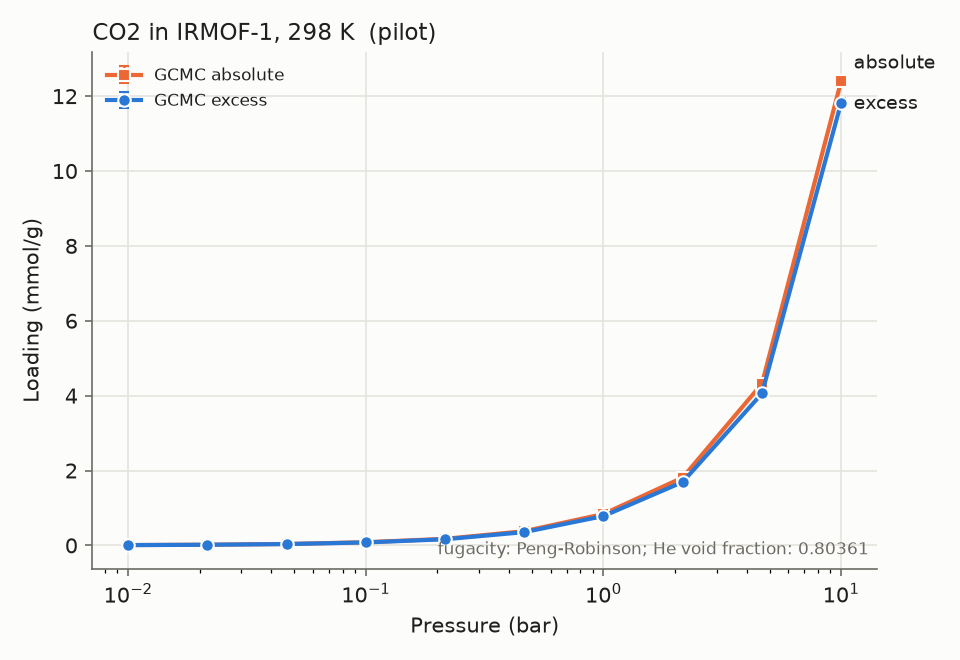
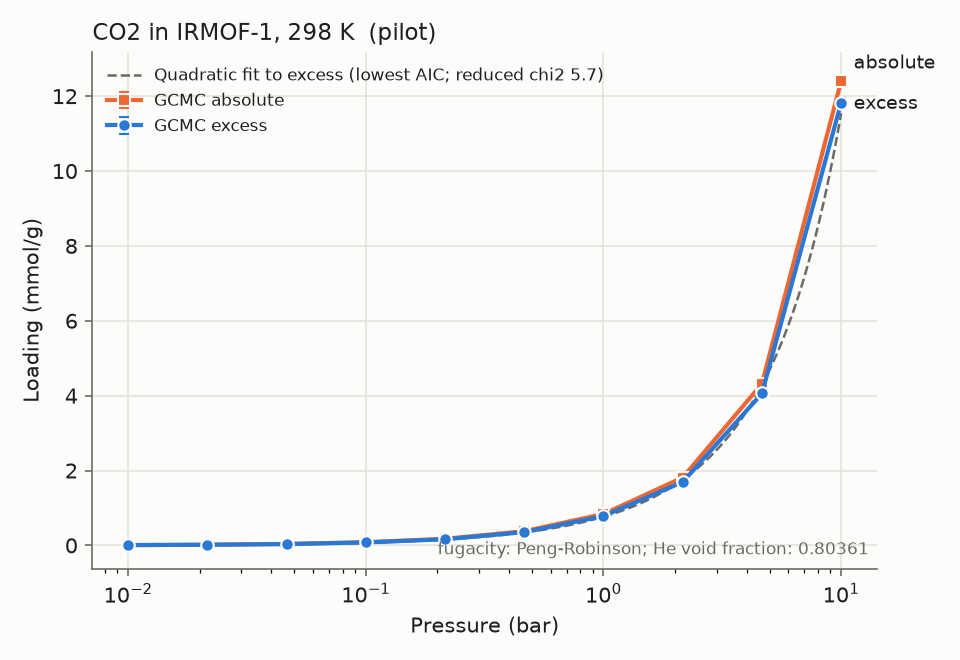
Phase 4 prep: matrix driver, Quadratic fit, low-loading rule, series errors
- gcmc matrix: all isotherms in one longest-first pool (cost from the
  10-bar calibration), one shared extension pass, resumable
- no extension for points with < 1 molecule in the box (flag low_loading)
- convergence uses the larger of the RASPA3 block error and the
  production-series standard error; both are reported
- pyGAPS Quadratic model fits S-shaped isotherms; plot shows lowest-AIC fit

Changed region(s): [[0.125, 0.0909, 0.625, 0.2121]]

diff --git a/src/gcmctools/workflow.py b/src/gcmctools/workflow.py
@@ -10,6 +10,7 @@ from . import fit, parse, raspa, runner, units
 
 ROOT = Path(__file__).resolve().parents[2]
 REL_ERR_LIMIT = 0.05
+LOW_LOADING_MOLECULES = 1.0   # below this average number of molecules in the box, no extension
 
 
 def load_cases():
@@ -164,33 +165,134 @@ def run_isotherm(case_id, gas, T, pressures_bar, opts, label, jobs=8, extend=Tru
     runner.run_pool(dirs + extra, jobs=jobs, log=log)
 
     if extend:
-        final = []
-        ext = []
-        for d, p in zip(dirs, pressures_bar):
-            r = parse.parse_run(d)
-            factor = extension_factor(r)
-            if factor > 1:
-                log(f"extend {p} bar by x{factor}: {d.name}")
-                ext.append(setup_point(model, "gcmc", gas, T, units.bar_to_pa(p), opts, parent,
-                                       cycles=opts["cycles"] * factor, init_cycles=opts["init_cycles"] * 2))
-                final.append(ext[-1])
-            else:
-                final.append(d)
-        if ext:
-            runner.run_pool(ext, jobs=jobs, log=log)
-        meta = json.loads((parent / "isotherm.json").read_text())
-        meta["gcmc_dirs_first_pass"] = meta["gcmc_dirs"]
-        meta["gcmc_dirs"] = [str(d) for d in final]
-        (parent / "isotherm.json").write_text(json.dumps(meta, indent=2))
+        extend_points(parent, model, opts, jobs=jobs, log=log)
     return parent
 
 
-def extension_factor(r, max_factor=4):
+def molecules_in_box(r, unit_cells):
+    if not r or r.get("abs_molec_uc") is None:
+        return None
+    return r["abs_molec_uc"] * unit_cells[0] * unit_cells[1] * unit_cells[2]
+
+
+def plan_extensions(parent, model, opts, log=print):
+    """Set up extension runs for unconverged points of one isotherm; record the final folder per point.
+
+    Returns the list of new folders (not yet run).
+    """
+    meta = json.loads((parent / "isotherm.json").read_text())
+    if "gcmc_dirs_first_pass" in meta:            # already planned (resume): return the extension folders
+        return [Path(d) for d, f in zip(meta["gcmc_dirs"], meta["gcmc_dirs_first_pass"]) if d != f]
+    final, ext = [], []
+    for d in map(Path, meta["gcmc_dirs"]):
+        run = json.loads((d / "run.json").read_text())
+        st = meta["gas"], meta["T_K"], run["settings"]["P_Pa"]
+        factor = extension_factor(parse.parse_run(d), unit_cells=opts["unit_cells"])
+        if factor > 1:
+            log(f"extend {st[0]} {st[1]:g} K {st[2] / 1e5:g} bar by x{factor}: {d}")
+            nd = setup_point(model, "gcmc", meta["gas"], meta["T_K"], run["settings"]["P_Pa"], opts, parent,
+                             cycles=opts["cycles"] * factor, init_cycles=opts["init_cycles"] * 2)
+            ext.append(nd)
+            final.append(nd)
+        else:
+            final.append(d)
+    meta["gcmc_dirs_first_pass"] = meta["gcmc_dirs"]
+    meta["gcmc_dirs"] = [str(d) for d in final]
+    (parent / "isotherm.json").write_text(json.dumps(meta, indent=2))
+    return ext
+
+
+def extend_points(parent, model, opts, jobs=8, log=print):
+    ext = plan_extensions(parent, model, opts, log)
+    if ext:
+        runner.run_pool(ext, jobs=jobs, log=log)
+
+
+def setup_isotherm(case_id, gas, T, pressures_bar, opts, label, widom=True, nvt1=True, log=print, cases=None):
+    """Create all run folders of one isotherm (no running). Returns (parent, model, opts, gcmc, extra)."""
+    model = build_model(case_id, gas, cases=cases)
+    parent = isotherm_dir(case_id, gas, T, label)
+    parent.mkdir(parents=True, exist_ok=True)
+    opts = resolve_options(model, opts, parent, log)
+    dirs = [setup_point(model, "gcmc", gas, T, units.bar_to_pa(p), opts, parent) for p in pressures_bar]
+    extra = []
+    if widom:
+        extra.append(setup_point(model, "widom", gas, T, 1e5, opts, parent, init_cycles=0))
+    if nvt1:
+        extra.append(setup_point(model, "nvt1", gas, T, 1e5, opts, parent))
+    meta_path = parent / "isotherm.json"
+    if not meta_path.exists():
+        meta_path.write_text(json.dumps(
+            {"case": case_id, "gas": gas, "T_K": T, "pressures_bar": pressures_bar, "label": label,
+             "options": opts, "gcmc_dirs": [str(d) for d in dirs], "extra_dirs": [str(d) for d in extra]},
+            indent=2))
+    return parent, model, opts, dirs, extra
+
+
+def cost_estimate(case_id, gas, T, kind, P_bar, cycles, calibration):
+    """Relative CPU cost of a run (for longest-first scheduling), from the 10-bar calibration."""
+    c = next((r for r in calibration if r["case"] == case_id and r["gas"] == gas and r["T_K"] == T), None)
+    if c is None:
+        return 0.0
+    n10 = c["molecules_box"] or 0.0
+    per_step = c["cpu_s_per_cycle"] / max(20.0, n10)
+    n = n10 * min(1.0, P_bar / 10.0) if kind == "gcmc" else 1.0
+    return per_step * max(20.0, n) * cycles
+
+
+def run_matrix(items, opts, label, jobs=8, log=print):
+    """items: [(case, gas, T)]. One shared pool, longest first; then one shared extension pass."""
+    cal_path = ROOT / "results" / "budget" / "calibration.json"
+    cal = json.loads(cal_path.read_text()) if cal_path.exists() else []
+    cases = load_cases()
+    pressures = cases["defaults"]["pressures_bar"]
+    isos, queue = [], []
+    for case_id, gas, T in items:
+        parent, model, o, dirs, extra = setup_isotherm(case_id, gas, T, pressures, opts, label, log=log, cases=cases)
+        isos.append((parent, model, o))
+        for d, p in zip(dirs, pressures):
+            queue.append((cost_estimate(case_id, gas, T, "gcmc", p, o["cycles"] + o["init_cycles"], cal), d))
+        for d in extra:
+            queue.append((cost_estimate(case_id, gas, T, "widom", 0, o["cycles"], cal), d))
+    queue.sort(key=lambda x: -x[0])
+    log(f"matrix: {len(isos)} isotherms, {len(queue)} runs, estimated {sum(c for c, _ in queue) / 3600:.1f} CPU h "
+        f"(first pass, from calibration)")
+    runner.run_pool([d for _, d in queue], jobs=jobs, log=log)
+    ext = []
+    for parent, model, o in isos:
+        meta = json.loads((parent / "isotherm.json").read_text())
+        for d in plan_extensions(parent, model, o, log):
+            run = json.loads((d / "run.json").read_text())
+            ext.append((cost_estimate(meta["case"], meta["gas"], meta["T_K"], "gcmc", run["settings"]["P_Pa"] / 1e5,
+                                      run["settings"]["cycles"] + run["settings"]["init_cycles"], cal), d))
+    ext.sort(key=lambda x: -x[0])
+    log(f"matrix: extension pass with {len(ext)} runs, estimated {sum(c for c, _ in ext) / 3600:.1f} CPU h")
+    runner.run_pool([d for _, d in ext], jobs=jobs, log=log)
+    out = []
+    for parent, _, _ in isos:
+        try:
+            csv, *_ = collect(parent)
+            from . import report
+            report.plot_isotherm(csv)
+            out.append(csv)
+            log(f"collected {csv}")
+        except Exception as e:          # report and continue with the other isotherms
+            log(f"COLLECT PROBLEM {parent}: {e}")
+    return out
+
+
+def extension_factor(r, max_factor=4, unit_cells=None):
     """Cycle multiplier for an unconverged point (1 = fine).
 
     Statistical error scales as 1/sqrt(cycles), so the factor to reach 5% relative error is
     (relerr/0.05)^2, capped. A drift flag alone gives x2 (and the init cycles are doubled).
+    Points with fewer than LOW_LOADING_MOLECULES molecules in the box on average are not extended:
+    5% is unreachable there in any affordable run, and the Widom Henry coefficient covers that range.
     """
+    if unit_cells is not None:
+        n = molecules_in_box(r, unit_cells)
+        if n is not None and n < LOW_LOADING_MOLECULES:
+            return 1
     rel = rel_err(r)
     drift = parse.drift_check(r["production_series_exc_mol_kg"])[2]
     f = 1
@@ -202,9 +304,14 @@ def extension_factor(r, max_factor=4):
 
 
 def rel_err(r):
+    """Relative error of the excess loading: the larger of RASPA3's block error and the series error."""
     if not r or not r.get("exc_mol_kg"):
         return None
-    return abs(r["exc_err_mol_kg"] / r["exc_mol_kg"])
+    err = r["exc_err_mol_kg"]
+    se = parse.series_stderr(r.get("production_series_exc_mol_kg") or [])
+    if se is not None:
+        err = max(err, se)
+    return abs(err / r["exc_mol_kg"])
 
 
 # ------------------------------------------------------------------ collect
@@ -224,11 +331,14 @@ def collect(parent, results_dir=None):
         p_bar = units.pa_to_bar(run["settings"]["P_Pa"])
         drift, drift_se, drift_flag = parse.drift_check(r["production_series_exc_mol_kg"])
         rel = rel_err(r)
+        n_box = molecules_in_box(r, run["settings"]["unit_cells"])
         flags = []
         if drift_flag:
             flags.append("drift")
         if rel is not None and rel > REL_ERR_LIMIT:
             flags.append(f"relerr>{REL_ERR_LIMIT:.0%}")
+        if n_box is not None and n_box < LOW_LOADING_MOLECULES:
+            flags.append("low_loading")
         for basis in ("excess", "absolute"):
             k = "exc" if basis == "excess" else "abs"
             rows.append({"material_id": meta["case"], "adsorbate": meta["gas"], "T_K": meta["T_K"],
@@ -240,6 +350,8 @@ def collect(parent, results_dir=None):
                        "helium_void_fraction": r["helium_void_fraction"],
                        "exc_mmol_g": r["exc_mol_kg"], "exc_err": r["exc_err_mol_kg"],
                        "abs_mmol_g": r["abs_mol_kg"], "abs_err": r["abs_err_mol_kg"],
+                       "exc_err_series": parse.series_stderr(r["production_series_exc_mol_kg"]),
+                       "molecules_in_box": n_box,
                        "rel_err": rel, "drift_mmol_g": drift, "drift_se": drift_se, "drift_flag": drift_flag,
                        "enthalpy_kj_mol": r["enthalpy_kj_mol"], "enthalpy_err_kj_mol": r["enthalpy_err_kj_mol"],
                        "cycles": run["settings"]["cycles"], "framework_atoms": r["framework_atoms"],

diff --git a/src/gcmctools/fit.py b/src/gcmctools/fit.py
@@ -24,10 +24,16 @@ def dslangmuir(p, n1, k1, n2, k2):
     return n1 * k1 * p / (1.0 + k1 * p) + n2 * k2 * p / (1.0 + k2 * p)
 
 
+def quadratic(p, n_m, ka, kb):
+    """pyGAPS 'Quadratic' (cooperative two-site) model; can describe S-shaped isotherms. Saturation 2*n_m."""
+    return n_m * (ka + 2.0 * kb * p) * p / (1.0 + ka * p + kb * p ** 2)
+
+
 MODELS = {
     "Henry": (henry, ["K_mmol_g_bar"]),
     "Langmuir": (langmuir, ["n_m_mmol_g", "K_1_bar"]),
     "DSLangmuir": (dslangmuir, ["n1_mmol_g", "K1_1_bar", "n2_mmol_g", "K2_1_bar"]),
+    "Quadratic": (quadratic, ["n_m_mmol_g", "Ka_1_bar", "Kb_1_bar2"]),
 }
 
 
@@ -52,9 +58,12 @@ def fit_model(name, p, q, err, p_max=None):
         guess, bounds = [q[0] / p[0]], ([0.0], [np.inf])
     elif name == "Langmuir":
         guess, bounds = [1.2 * qmax, (q[0] / p[0]) / (1.2 * qmax)], ([0, 0], [np.inf, np.inf])
-    else:
+    elif name == "DSLangmuir":
         k0 = (q[0] / p[0]) / qmax
         guess, bounds = [0.3 * qmax, 10 * k0, 0.9 * qmax, 0.3 * k0], ([0] * 4, [np.inf] * 4)
+    else:
+        ka = (q[0] / p[0]) / qmax
+        guess, bounds = [0.6 * qmax, ka, ka ** 2], ([0] * 3, [np.inf] * 3)
     try:
         popt, pcov = curve_fit(f, p, q, p0=guess, sigma=s, absolute_sigma=True, bounds=bounds,
                                maxfev=20000)
@@ -74,9 +83,10 @@ def fit_model(name, p, q, err, p_max=None):
 
 
 def fit_all(p, q, err, henry_points=3):
-    """Henry on the lowest `henry_points` pressures; Langmuir and DSL on all points."""
+    """Henry on the lowest `henry_points` pressures; Langmuir, DSL and Quadratic on all points."""
     order = np.argsort(p)
     p_h = float(np.asarray(p)[order][min(henry_points, len(p)) - 1])
     return {"Henry": fit_model("Henry", p, q, err, p_max=p_h),
             "Langmuir": fit_model("Langmuir", p, q, err),
-            "DSLangmuir": fit_model("DSLangmuir", p, q, err)}
+            "DSLangmuir": fit_model("DSLangmuir", p, q, err),
+            "Quadratic": fit_model("Quadratic", p, q, err)}

diff --git a/src/gcmctools/cli.py b/src/gcmctools/cli.py
@@ -142,6 +142,22 @@ def cmd_compare(a, argv):
     print(png)
 
 
+def cmd_matrix(a, argv):
+    cases = workflow.load_cases()
+    d = cases["defaults"]
+    items = [(c, g, T) for c in (a.cases or list(cases["cases"])) for g in (a.gases or d["gases"])
+             for T in d["temperatures_K"][g]]
+    if a.detach:
+        return _detach(["matrix"] + argv, f"gcmc_matrix_{a.label}")
+    opts = {"cycles": a.cycles, "init_cycles": a.init_cycles, "unit_cells": "auto", "void_fraction": "auto",
+            "ideal_gas": False, "coulomb_cutoff": 12.0, "print_every": None}
+    log = _log_to(ROOT / "runs" / f"matrix_{a.label}.log")
+    log(f"gcmc matrix {' '.join(argv)}")
+    for csv in workflow.run_matrix(items, opts, a.label, jobs=a.jobs, log=log):
+        print(csv)
+    log("matrix done")
+
+
 def main(argv=None):
     argv = list(sys.argv[1:] if argv is None else argv)
     ap = argparse.ArgumentParser(prog="gcmc")
@@ -180,8 +196,16 @@ def main(argv=None):
     k.add_argument("--T", type=float, required=True)
     k.add_argument("--sim", required=True, help="results/<case>/<gas>_<T>K_<label>.csv")
     k.add_argument("--T-second", type=float, help="second experimental temperature for Clausius-Clapeyron")
+    m = sub.add_parser("matrix", help="run all case/gas/T isotherms in one longest-first pool")
+    m.add_argument("--cases", nargs="+")
+    m.add_argument("--gases", nargs="+", choices=["CO2", "CH4", "N2"])
+    m.add_argument("--cycles", type=int, default=20000)
+    m.add_argument("--init-cycles", type=int, default=5000)
+    m.add_argument("--jobs", type=int, default=8)
+    m.add_argument("--label", default="main")
+    m.add_argument("--detach", action="store_true")
     a = ap.parse_args(argv)
-    {"isotherm": cmd_isotherm, "collect": cmd_collect, "isodb": cmd_isodb,
+    {"matrix": cmd_matrix, "isotherm": cmd_isotherm, "collect": cmd_collect, "isodb": cmd_isodb,
      "compare": cmd_compare}[a.cmd](a, argv[1:])
 
 

diff --git a/tests/test_workflow.py b/tests/test_workflow.py
@@ -1,0 +1,34 @@
+"""Extension rules and the matrix cost ordering."""
+
+from gcmctools import workflow
+
+
+def r(exc, err, n_uc, series=None):
+    return {"exc_mol_kg": exc, "exc_err_mol_kg": err, "abs_molec_uc": n_uc,
+            "production_series_exc_mol_kg": series or [(i, exc) for i in range(21)]}
+
+
+def test_extension_factor_from_relative_error():
+    assert workflow.extension_factor(r(1.0, 0.04, 5.0), unit_cells=[2, 2, 2]) == 1
+    assert workflow.extension_factor(r(1.0, 0.075, 5.0), unit_cells=[2, 2, 2]) == 3   # (0.075/0.05)^2 = 2.25
+    assert workflow.extension_factor(r(1.0, 0.5, 5.0), unit_cells=[2, 2, 2]) == 4     # capped
+
+
+def test_low_loading_points_not_extended():
+    # 0.1 molecules per unit cell x 8 cells = 0.8 molecules in the box (< 1)
+    assert workflow.extension_factor(r(0.01, 0.005, 0.1), unit_cells=[2, 2, 2]) == 1
+    assert workflow.extension_factor(r(0.01, 0.005, 0.2), unit_cells=[2, 2, 2]) == 4
+
+
+def test_series_error_can_trigger_extension():
+    noisy = [(0, 1.0)] + [(i, 1.0 + (0.6 if i % 2 else -0.6)) for i in range(1, 21)]
+    # block error says 1%, series SE = 0.6*sqrt(20/19)/sqrt(20) ~ 0.138 -> 13.8% -> x4
+    assert workflow.extension_factor(r(1.0, 0.01, 5.0, noisy), unit_cells=[1, 1, 1]) == 4
+
+
+def test_cost_estimate_orders_high_pressure_first():
+    cal = [{"case": "X", "gas": "CO2", "T_K": 298.0, "molecules_box": 200.0, "cpu_s_per_cycle": 0.2}]
+    hi = workflow.cost_estimate("X", "CO2", 298.0, "gcmc", 10.0, 25000, cal)
+    lo = workflow.cost_estimate("X", "CO2", 298.0, "gcmc", 0.01, 25000, cal)
+    assert hi == 0.2 * 25000 and lo == 0.2 / 200 * 20 * 25000
+    assert workflow.cost_estimate("Y", "CO2", 298.0, "gcmc", 10.0, 25000, cal) == 0.0

diff --git a/src/gcmctools/report.py b/src/gcmctools/report.py
@@ -49,12 +49,13 @@ def plot_isotherm(csv_path, out_path=None):
         last = d.iloc[-1]
         ax.annotate(basis, (last.P_bar, last.loading_mmol_g), xytext=(6, -3 if i == 0 else 6),
                     textcoords="offset points", color=TEXT, fontsize=9)
-    f = meta.get("fits_excess", {}).get("DSLangmuir", {})
-    if f.get("ok"):
-        from .fit import dslangmuir
+    fits = {k: v for k, v in meta.get("fits_excess", {}).items() if k != "Henry" and v.get("ok")}
+    if fits:
+        from . import fit as fitmod
+        name, f = min(fits.items(), key=lambda kv: kv[1]["aic"])
         p = np.logspace(np.log10(df.P_bar.min()), np.log10(df.P_bar.max()), 200)
-        ax.plot(p, dslangmuir(p, *f["params"].values()), color=MUTED, linewidth=1.2, linestyle="--",
-                label="dual-site Langmuir fit (excess)")
+        ax.plot(p, fitmod.MODELS[name][0](p, *f["params"].values()), color=MUTED, linewidth=1.2, linestyle="--",
+                label=f"{name} fit to excess (lowest AIC; reduced chi2 {f['chi2_reduced']:.2g})")
     ax.set_xscale("log")
     ax.set_xlabel("Pressure (bar)", color=TEXT)
     ax.set_ylabel("Loading (mmol/g)", color=TEXT)

diff --git a/src/gcmctools/parse.py b/src/gcmctools/parse.py
@@ -118,3 +118,17 @@ def drift_check(series, n_skip=1):
     se = math.sqrt(sa ** 2 + sb ** 2)
     diff = mb - ma
     return diff, se, bool(se > 0 and abs(diff) > 2 * se)
+
+
+def series_stderr(series, n_skip=1):
+    """Standard error of the mean from the production status samples, treated as independent.
+
+    An independent cross-check of RASPA3's 5-block error. Samples are PrintEvery cycles apart;
+    if they are correlated this underestimates the error, so the larger of the two estimates is used
+    for convergence decisions.
+    """
+    vals = [v for _, v in series[n_skip:]]
+    if len(vals) < 4:
+        return None
+    m = sum(vals) / len(vals)
+    return math.sqrt(sum((v - m) ** 2 for v in vals) / (len(vals) - 1) / len(vals))

diff --git a/tests/test_fit.py b/tests/test_fit.py
@@ -57,3 +57,15 @@ def test_model_forms_match_pygaps():
 
 def test_too_few_points():
     assert not fit.fit_model("DSLangmuir", P[:4], P[:4], P[:4])["ok"]
+
+
+def test_quadratic_matches_pygaps_and_fits_s_shape():
+    import pygaps.modelling as pm
+    m = pm.get_isotherm_model("Quadratic")
+    m.params = {"n_m": 10.0, "Ka": 0.05, "Kb": 0.02}
+    for p in (0.01, 1.0, 9.0):
+        assert m.loading(p) == pytest.approx(fit.quadratic(p, 10.0, 0.05, 0.02))
+    q = fit.quadratic(P, 10.0, 0.05, 0.02)          # convex at low P (S-shape)
+    r = fit.fit_model("Quadratic", P, q, 0.01 * q)
+    assert r["ok"] and r["chi2_reduced"] < 1e-6
+    assert r["params"]["Kb_1_bar2"] == pytest.approx(0.02, rel=1e-4)

diff --git a/tests/test_parse.py b/tests/test_parse.py
@@ -72,3 +72,10 @@ def test_drift_check_flags_trend_not_noise():
     assert parse.drift_check(flat)[2] is False
     assert parse.drift_check(ramp)[2] is True
     assert parse.drift_check(ramp[:4]) == (None, None, False)
+
+
+def test_series_stderr():
+    s = [(0, 99.0)] + [(i, v) for i, v in enumerate([1.0, 2.0, 3.0, 4.0, 5.0], start=1)]
+    # sample sd of 1..5 is sqrt(2.5); SE = sqrt(2.5/5)
+    assert parse.series_stderr(s) == pytest.approx((2.5 / 5) ** 0.5)
+    assert parse.series_stderr(s[:3]) is None
